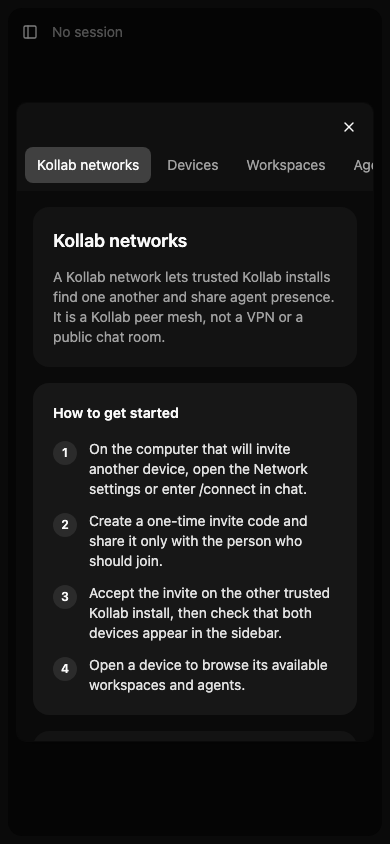
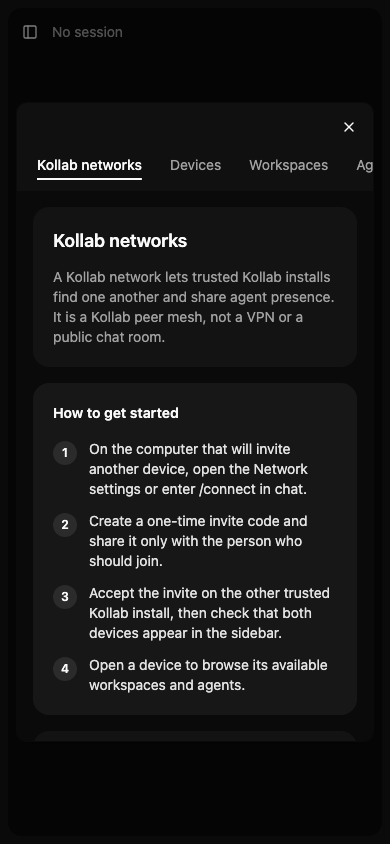
style(webui): Learn topic menu marks the open topic with text weight and an underline, not a filled chip, refs #285

diff --git a/packages/kollabor-webui/frontend/src/components/learn/LearnPage.tsx b/packages/kollabor-webui/frontend/src/components/learn/LearnPage.tsx
@@ -36,8 +36,10 @@ export function LearnPage({ route, onNavigate, onExit }: LearnPageProps) {
                 size="sm"
                 aria-current={topic?.id === item.id ? "page" : undefined}
                 onClick={() => onNavigate(item.id)}
-                className={`h-auto min-h-9 justify-start px-3 py-2 text-left font-normal md:w-full ${
-                  topic?.id === item.id ? "bg-accent text-accent-foreground" : "text-muted-foreground hover:text-foreground"
+                className={`h-auto min-h-9 justify-start px-3 py-2 text-left hover:bg-transparent md:w-full ${
+                  topic?.id === item.id
+                    ? "font-medium text-foreground underline decoration-2 underline-offset-8 md:no-underline"
+                    : "font-normal text-muted-foreground hover:text-foreground"
                 }`}
               >
                 <span className="min-w-0 whitespace-nowrap md:whitespace-normal">{item.title}</span>
